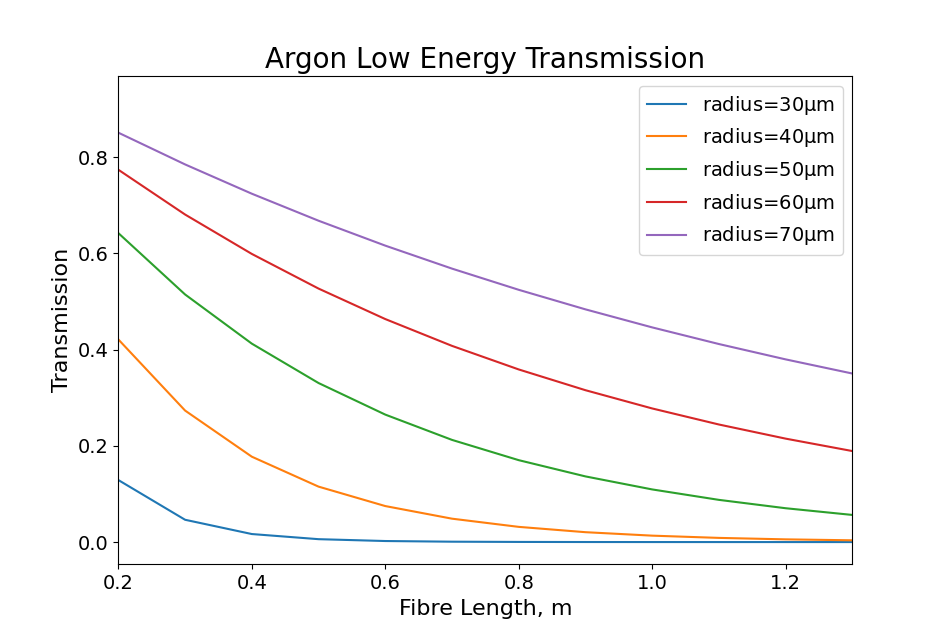
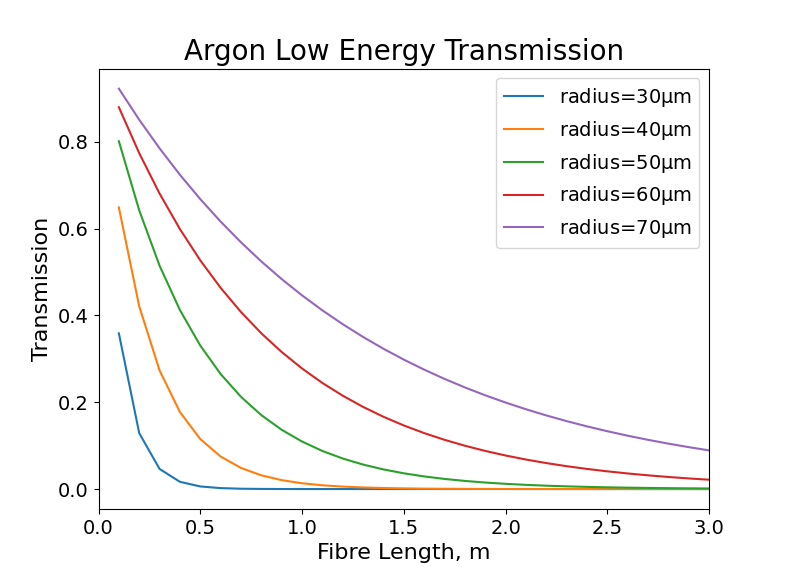
updated plots

diff --git a/HCF sim/Python/experiments/simulations/transmission_energies/grazing_reflection/Argon_plotting.py b/HCF sim/Python/experiments/simulations/transmission_energies/grazing_reflection/Argon_plotting.py
@@ -20,14 +20,8 @@ from scipy.optimize import curve_fit
 gas="Ar"
 header = ['radius', 'Fibre Length', 'Transmission']
 lines=[]
-filepath='C:\\Users\\ML\\OneDrive - Imperial College London\\MSci_Project\\code\\Synth\\Optimising-Field-Synthesiser\\HCF sim\\Python\\experiments\\plots\\transmission\\grazing_reflection\\low_energy_transmission_' + gas+ '_mediumradii.csv'
+filepath='C:\\Users\\ML\\OneDrive - Imperial College London\\MSci_Project\\code\\Synth\\Optimising-Field-Synthesiser\\HCF sim\\Python\\experiments\\plots\\transmission\\grazing_reflection\\low_energy_transmission_' + gas+ '.csv'
 
-"""
-with open('C:\\Users\\ML\\OneDrive - Imperial College London\\MSci_Project\\code\\Synth\\Optimising-Field-Synthesiser\\HCF sim\\Python\\experiments\\plots\\transmission\\grazing_reflection\\low_energy_transmission_' + gas+ '_mediumradii.csv', 'w', encoding='UTF8', newline='') as f:
-    for myline in f:
-        lines.append(myline)
-
-"""
 file=open(filepath)
 csvreader = csv.reader(file)
 header = []
@@ -67,7 +61,7 @@ for i in range(len(sims)):
     popt,_=curve_fit(func,L,sims[i])
     fit_params.append(popt)
     ax1.plot(L, sims[i],label="radius=%s$\mathrm{\mu}$m"%int(radii[i]*10**6))
-plt.legend(fontsize=14,loc="upper right")
+plt.legend(fontsize=14,loc="lower right")
 plt.xticks(fontsize=14)
 plt.yticks(fontsize=14)
 ax1.set_xlim(0,3)

diff --git a/HCF sim/Python/experiments/simulations/transmission_energies/grazing_reflection/Argon.py b/HCF sim/Python/experiments/simulations/transmission_energies/grazing_reflection/Argon.py
@@ -81,7 +81,6 @@ for i in range(len(sim_transmission)):
 plt.legend(fontsize=14)
 plt.xticks(fontsize=14)
 plt.yticks(fontsize=14)
-ax1.set_xlim(0.2,1.3)
 ax1.set_title("Argon Low Energy Transmission",fontsize=20)
 ax1.set_xlabel("Fibre Length, m",fontsize=16)
 ax1.set_ylabel("Transmission",fontsize=16)

diff --git a/HCF sim/Python/experiments/simulations/transmission_energies/grazing_reflection/Neon.py b/HCF sim/Python/experiments/simulations/transmission_energies/grazing_reflection/Neon.py
@@ -81,7 +81,6 @@ for i in range(len(sim_transmission)):
 plt.legend(fontsize=14)
 plt.xticks(fontsize=14)
 plt.yticks(fontsize=14)
-ax1.set_xlim(0.2,1.3)
 ax1.set_title("Neon Low Energy Transmission",fontsize=20)
 ax1.set_xlabel("Fibre Length, m",fontsize=16)
 ax1.set_ylabel("Transmission",fontsize=16)
